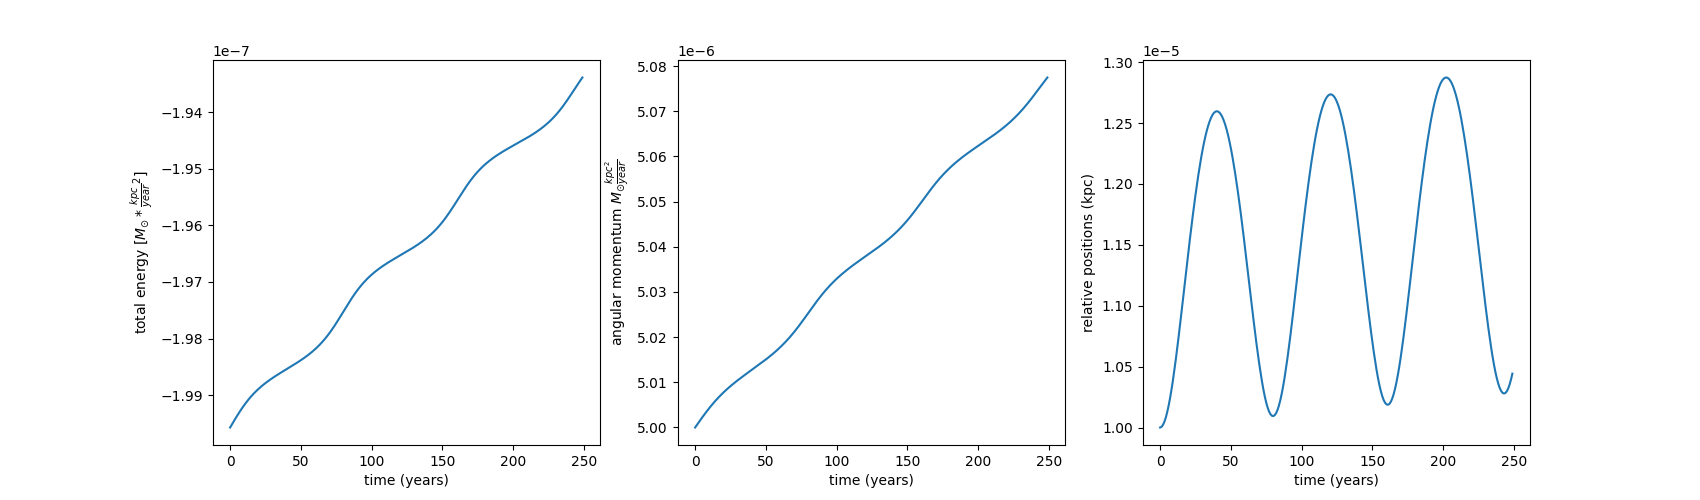
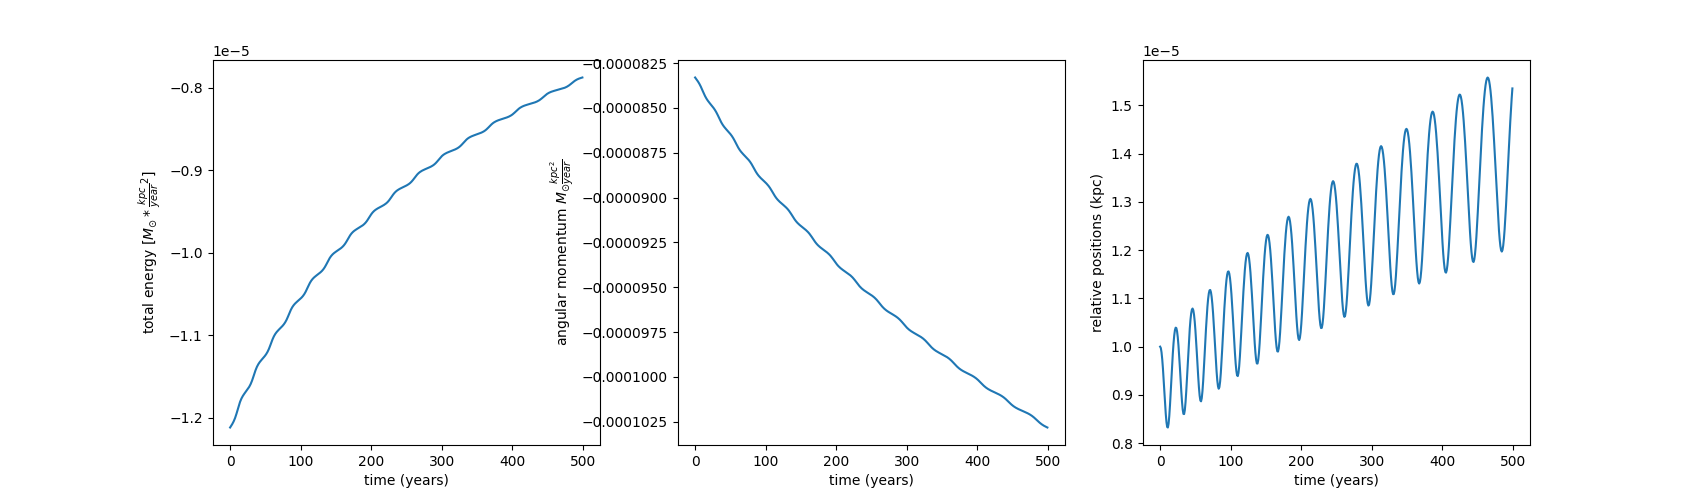
minor fixes

diff --git a/constants.py b/constants.py
@@ -18,6 +18,11 @@ G = 6.67*10**-11 * ureg.m**3/(ureg.kg*ureg.s**2)
 G = G.to(ureg.kpc**3/(ureg.solar_masss*ureg.yr**2))
 G = G.magnitude
 
+# The Speed of Light
+c = 3e8 * ureg.m/ureg.s
+c = c.to(ureg.kpc/ureg.yr)
+c = c.magnitude
+
 #Boltzman constant (to be used for velocity distribution)
 k_B = 1.380649e-23 *(ureg.J/ureg.K) # Boltzmann constant in J/K
 k_B = k_B.to(ureg. solar_mass*ureg. kpc**2/( ureg.year**2*ureg.K)) #Boltzman constant in our desirable units

diff --git a/bound_binary.py b/bound_binary.py
@@ -5,7 +5,7 @@
 import numpy as np
 import matplotlib.pyplot as plt
 from constants import G as const_G
-from constants import c as const_c
+# from constants import c as const_c
 from plot_3D import visualization
 
 # m = np.array([1e6,1e6])

diff --git a/sc_time_evolution.py b/sc_time_evolution.py
@@ -15,7 +15,7 @@ import numpy as np
 
 # Constants
 dt = 0.01  # Time step in years
-T = 250  # Total time in years
+T = 500  # Total time in years
 step = int(T / dt)  # Number of steps
 
 
